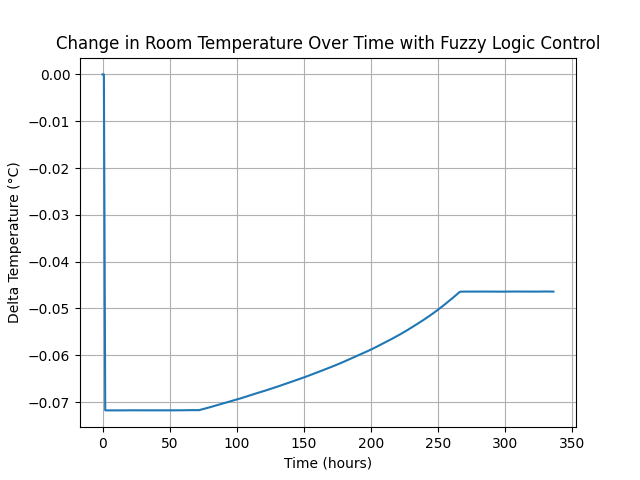
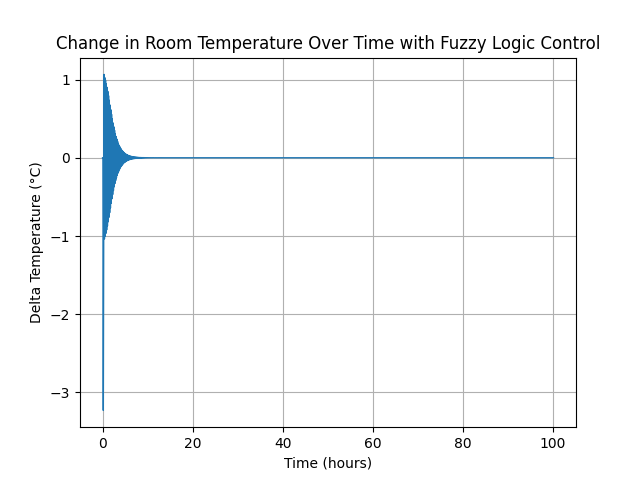
temp and delta temp converge

diff --git a/firstRun.py b/firstRun.py
@@ -5,12 +5,13 @@ import matplotlib.pyplot as plt
 from fuzzy_rules import rules
 import mins_maxs as mm
 from environment_simulator import calc_new_temp_and_hum
+import random
 
 controller = ctrl.ControlSystem(rules)
 simulator = ctrl.ControlSystemSimulation(controller)
 
-initial_temp = 40  # Initial room temperature in Celsius
-initial_hum = 50   # Initial room humidity in percentage
+initial_temp = random.uniform(mm.TEMP_MIN, mm.TEMP_MAX)  # Initial room temperature in Celsius
+initial_hum = random.uniform(mm.HUM_MIN, mm.HUM_MAX)   # Initial room humidity in percentage
 initial_delta_temp = 0  # Initial change in temperature
 
 cur_temp = initial_temp
@@ -20,8 +21,16 @@ cur_delta_temp = initial_delta_temp
 temps = [initial_temp]
 hums = [initial_hum]
 delta_temps = [initial_delta_temp]
+times = [0]
+#336 hours = 14 days
+start = 0
 
-for hour in range(24*14):
+#5 minute step
+step = 5 / 60
+
+cur_time = start
+
+while cur_time < 100:
     # Set inputs
     simulator.input['temperature'] = cur_temp
     simulator.input['humidity'] = cur_hum
@@ -33,12 +42,12 @@ for hour in range(24*14):
     # Get the output values
     heating_power = simulator.output['ac_heater_power']
 
-    new_data = calc_new_temp_and_hum(cur_temp, cur_hum, heating_power, hour)
+    new_data = calc_new_temp_and_hum(cur_temp, cur_hum, heating_power, cur_time)
     new_temp = new_data['temperature']
     new_hum = new_data['humidity']
 
 
-
+    print(f"Time: {cur_time:.2f} hrs, Temp: {cur_temp:.2f} C, Humidity: {cur_hum:.2f} %, Delta Temp: {cur_delta_temp:.2f} C, Heating Power: {heating_power:.2f} % -> New Temp: {new_temp:.2f} C, New Humidity: {new_hum:.2f} %")
     # Store the results
     temps.append(cur_temp)
     hums.append(cur_hum)
@@ -47,8 +56,10 @@ for hour in range(24*14):
     cur_delta_temp = new_temp - cur_temp
     cur_temp = new_temp
     cur_hum = new_hum
+    cur_time += step
+    times.append(cur_time)
 
-plt.plot(temps, label='Temperature over Time')
+plt.plot(times, temps, label='Temperature over Time', lw=1)
 #plt.plot(hums, label='Humidity (%)')
 plt.xlabel('Time (hours)')
 plt.ylabel('Temperature (°C)')
@@ -57,7 +68,7 @@ plt.grid()
 plt.savefig('temperature_over_time.png')
 plt.clf()
 
-plt.plot(delta_temps, label='Delta Temperature over Time')
+plt.plot(times, delta_temps, label='Delta Temperature over Time', lw = 1)
 plt.xlabel('Time (hours)')
 plt.ylabel('Delta Temperature (°C)')
 plt.title('Change in Room Temperature Over Time with Fuzzy Logic Control')

diff --git a/json_parser.py b/json_parser.py
@@ -30,8 +30,7 @@ outdoor_temp_by_hour = CubicSpline(x, temps)
 outdoor_humidity_by_hour = CubicSpline(x, humidities)
 
 if __name__ == "__main__":
-    for i in range(0, 24*14):
-        print(f"Hour {i}: Temp {outdoor_temp_by_hour(i):.2f} C, Humidity {outdoor_humidity_by_hour(i):.2f} %")
+    print( len(temps), len(humidities) )
     #x_smooth = np.linspace(0, 24*14-1, 1000)
 
     #plt.scatter(x, temps, label='temp data', color='red')

diff --git a/environment_simulator.py b/environment_simulator.py
@@ -51,8 +51,8 @@ def calc_new_temp_and_hum(temp, humidity, ac_heater_control, hour):
 
     sum_power -= heat_loss
 
-    # 5 for 5 seconds
-    temp_change = (sum_power * 5) / (air_mass * specific_heat)  # in Kelvin
+    # 5 minute step, 60 seconds per minute, time in seconds
+    temp_change = (sum_power * 5 * 60) / (air_mass * specific_heat)  # in Kelvin
 
     return {"temperature": temp + temp_change, "humidity": humidity}
 
